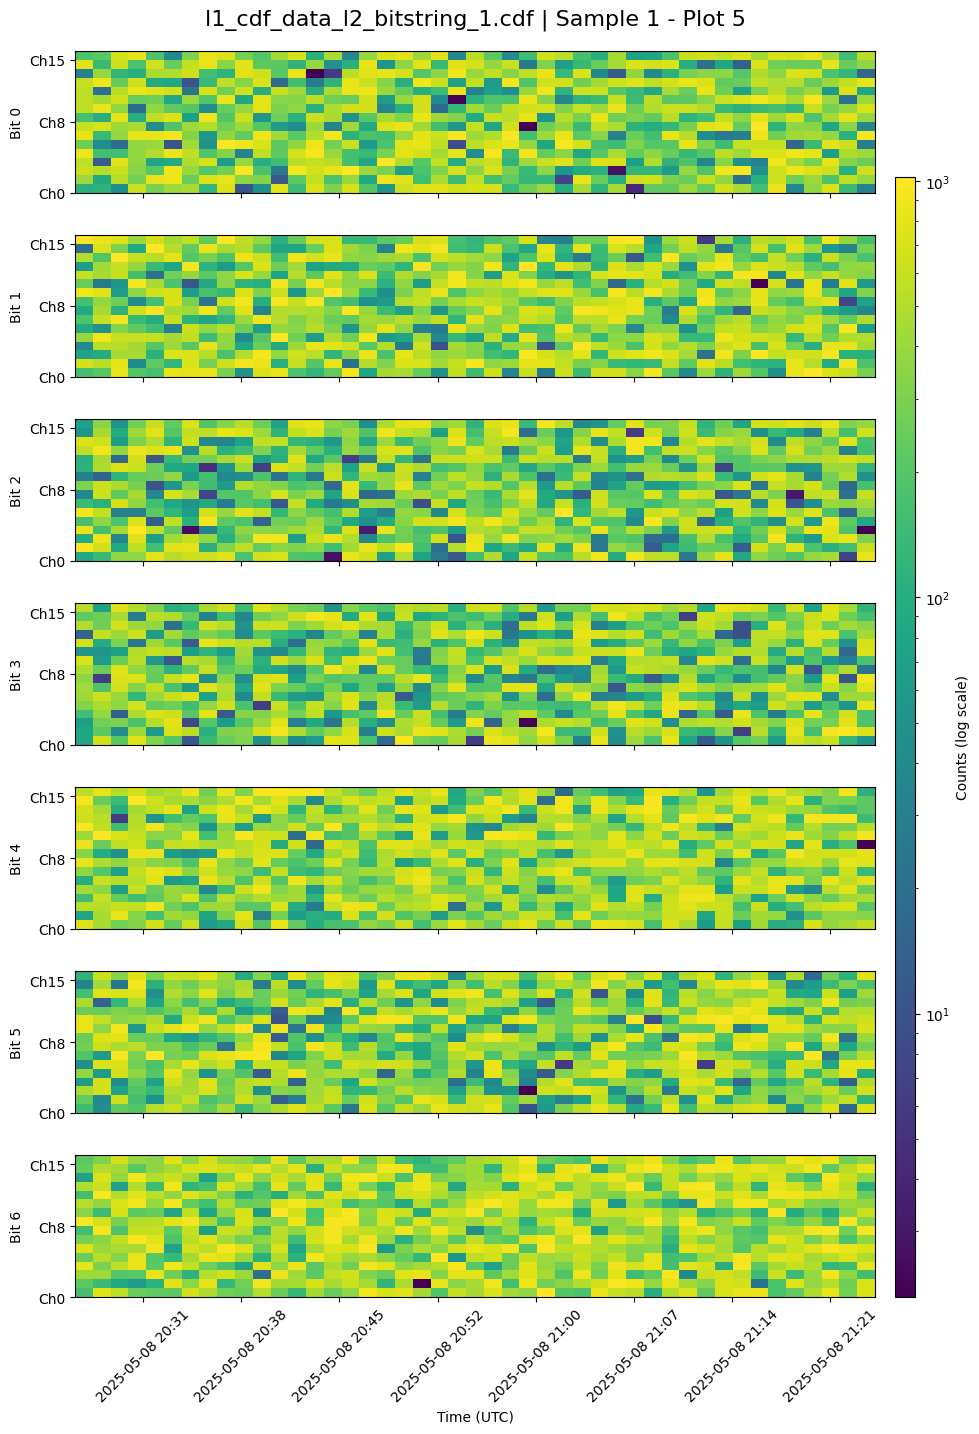
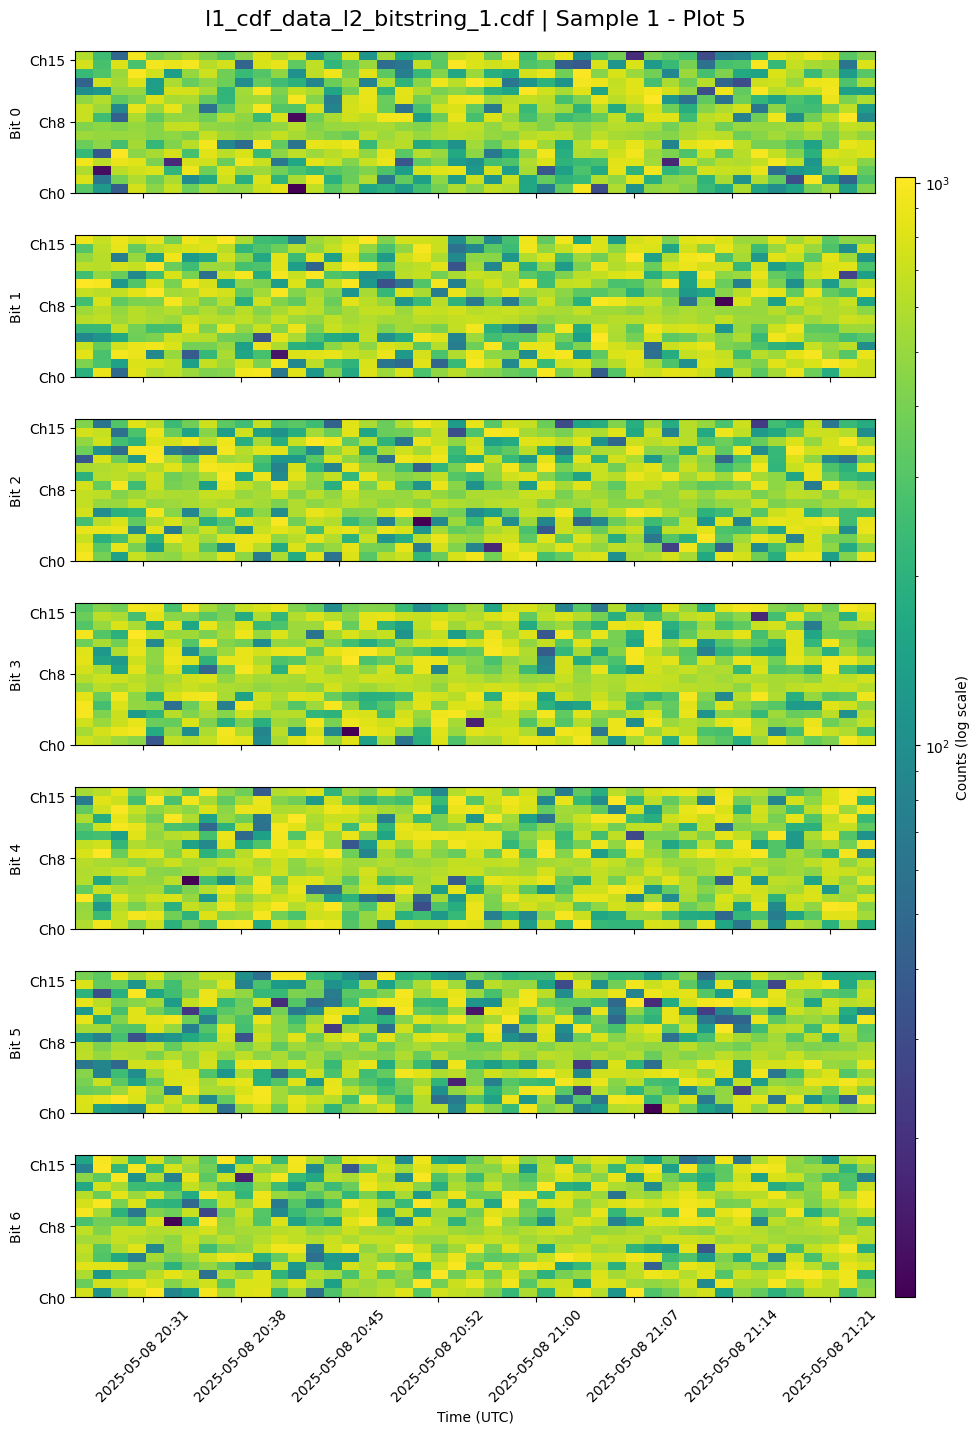
plot dimension fix

diff --git a/src/cdf_plot.py b/src/cdf_plot.py
@@ -101,7 +101,9 @@ def plot_cdf_mult_heatmaps(folder_path, save_dir=None):
             # print(total_counts_all.shape)
             if is_omni == False:
                 x, y, num, e = total_counts_all.shape[:]
-                total_counts_all = total_counts_all.reshape(1, num, y, x, e)
+                total_counts_all = total_counts_all.reshape(1, x, y, num, e)
+                new_order = (0, 3, 2, 1, 4)
+                total_counts_all = np.transpose(total_counts_all, axes=new_order)
             # else: 
             #     x, y = total_counts_all.shape[:]
             #     total_counts_all = total_counts_all.reshape(1, x, y)
@@ -119,10 +121,10 @@ def plot_cdf_mult_heatmaps(folder_path, save_dir=None):
 
         if is_omni == False:
 
-            num_data = total_counts_all.shape[0]     # 10
+            num_data = total_counts_all.shape[0]     # num_data
             num_figs = total_counts_all.shape[1]     # 6
             num_subplots = total_counts_all.shape[2] # 7
-
+            # print(total_counts_all.shape)
             y_ticks = [0, 8, 15]
             y_labels = [f"Ch{ch}" for ch in y_ticks]
 
